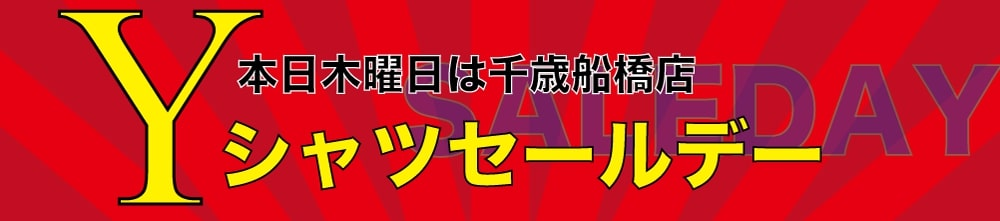
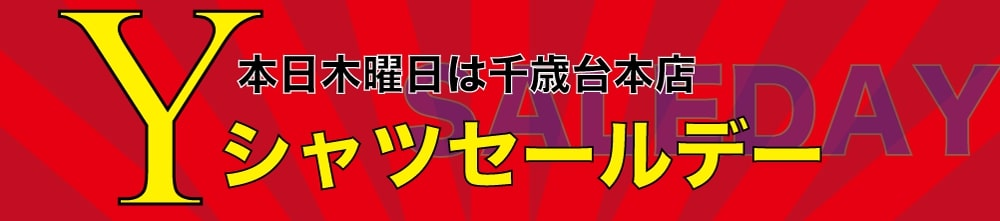
titose system dev

Changed region(s): [[0.558, 0.2172, 0.682, 0.4344]]

diff --git a/app/Http/Controllers/storeController.php b/app/Http/Controllers/storeController.php
@@ -18,7 +18,6 @@ class storeController extends Controller
 	/* いじったディレクトリ一覧→app config resources routes routes  */
 	     $day = new Carbon();
              $value = $day->dayOfWeek;/*曜日番号を取得*/
-
 	     if($value==2){
                      //火曜日
 		     $value=2;
@@ -37,7 +36,22 @@ class storeController extends Controller
 
 	public function titosedai(Request $request)
 	{
+	    $day = new Carbon();
+             $value = $day->dayOfWeek;/*曜日番号を取得*/
+             if($value==4){
+                     //木曜日
+                     $value=4;
+
+                }elseif($value==5){
+                     //金曜日
+                     $value=5;
+
+                }else{
+
+                        $value = null;
+
+              }
 		/*曜日のロジックは上と同じにするな*/
-		return view('pc.titosedai');
+		return view('pc.titosedai',compact('value'));
 	}
 }

diff --git a/resources/views/pc/titosedai.blade.php b/resources/views/pc/titosedai.blade.php
@@ -35,15 +35,15 @@
       <img src="{{ asset('img/pcplate5.png') }}">
       <img src="{{ asset('img/pcplate3.jpg') }}">
     </ul>
-   @if ($value ?? '' == 2)
+   @if ($value == 4)
     <div class="tokuhos">
       <!--<h1 class="tokuho"> {{$value ?? ''}}</h1>-->
-      <img src="{{ asset('img/saletue.jpg') }}">
+      <img src="{{ asset('img/salethu.jpg') }}">
     </div>
-    @elseif ($value ?? '' == 3)
+    @elseif ($value == 5)
      <div class="tokuhos">
       <!--<h1 class="tokuho"> {{$value ?? ''}}</h1>-->
-      <img src="{{ asset('img/salewed.jpg') }}">
+      <img src="{{ asset('img/salefri.jpg') }}">
     </div>
     @else
     @endif
